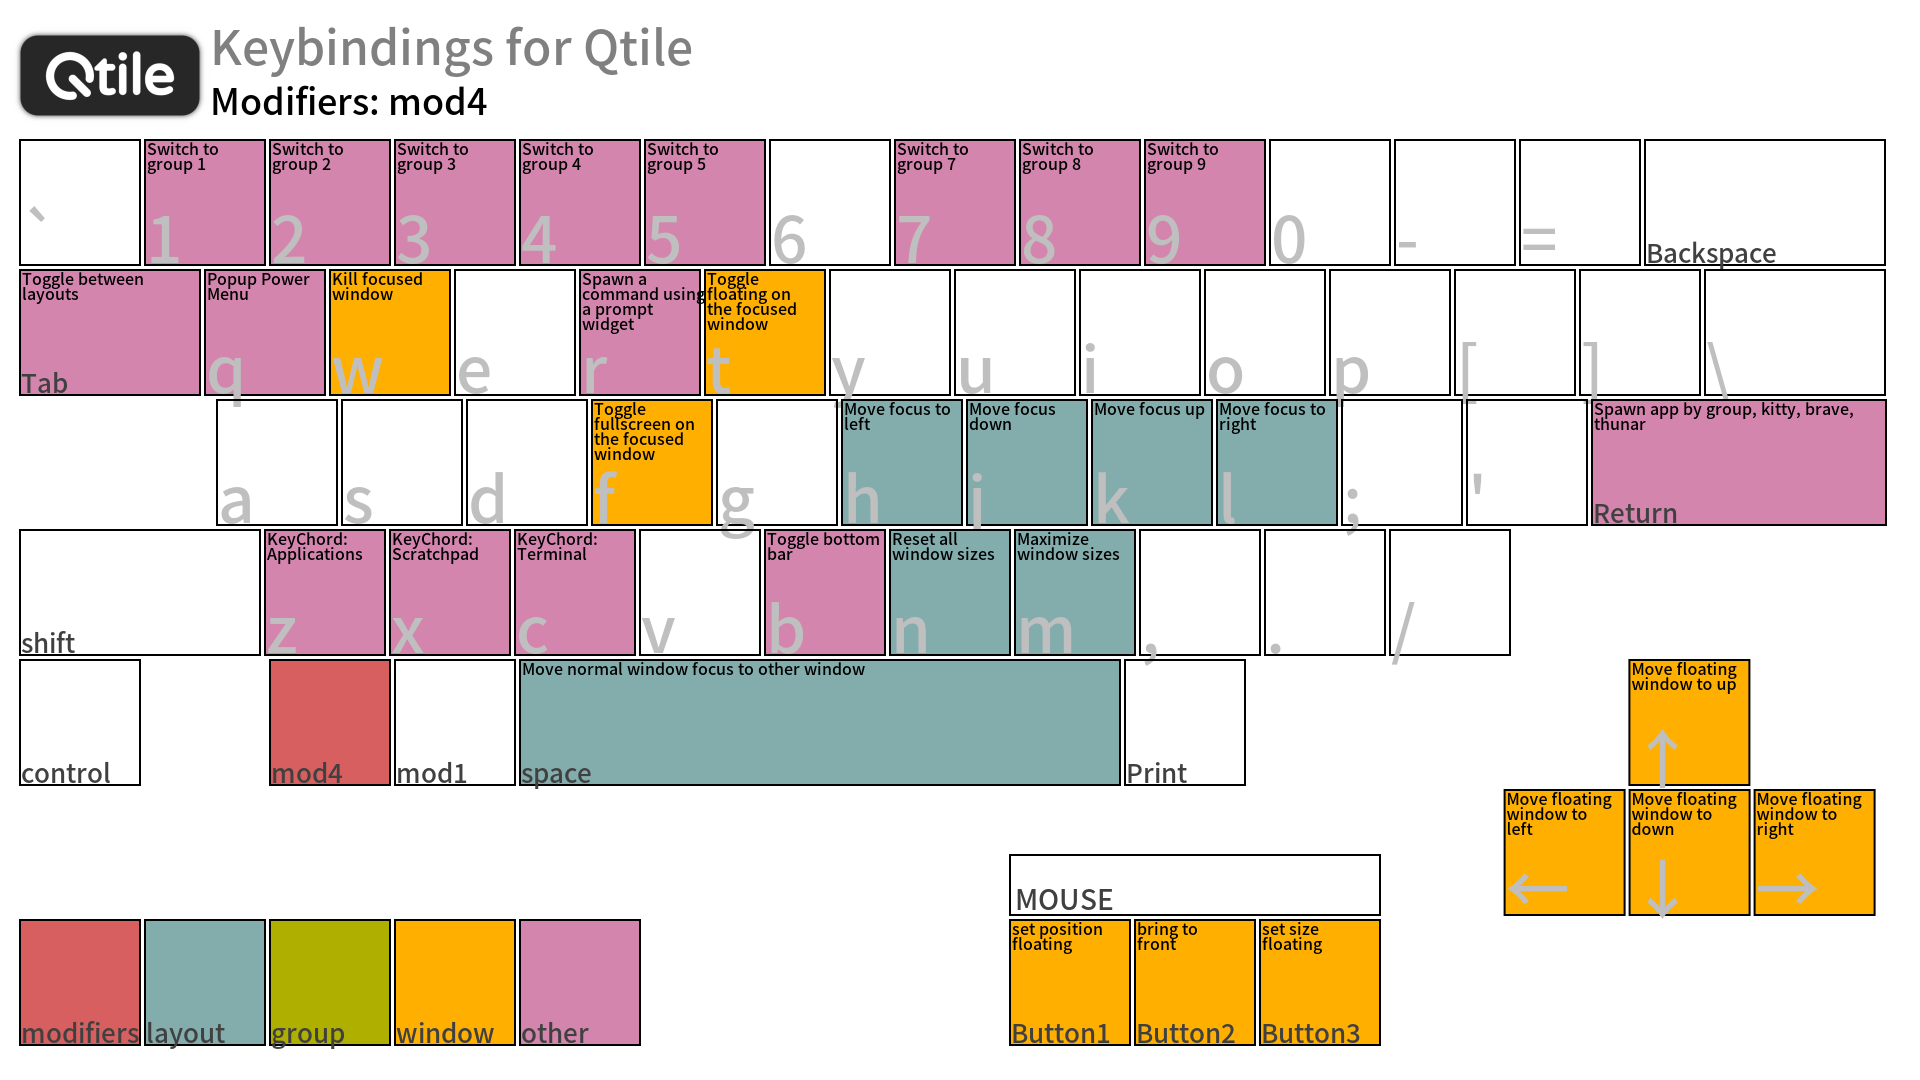
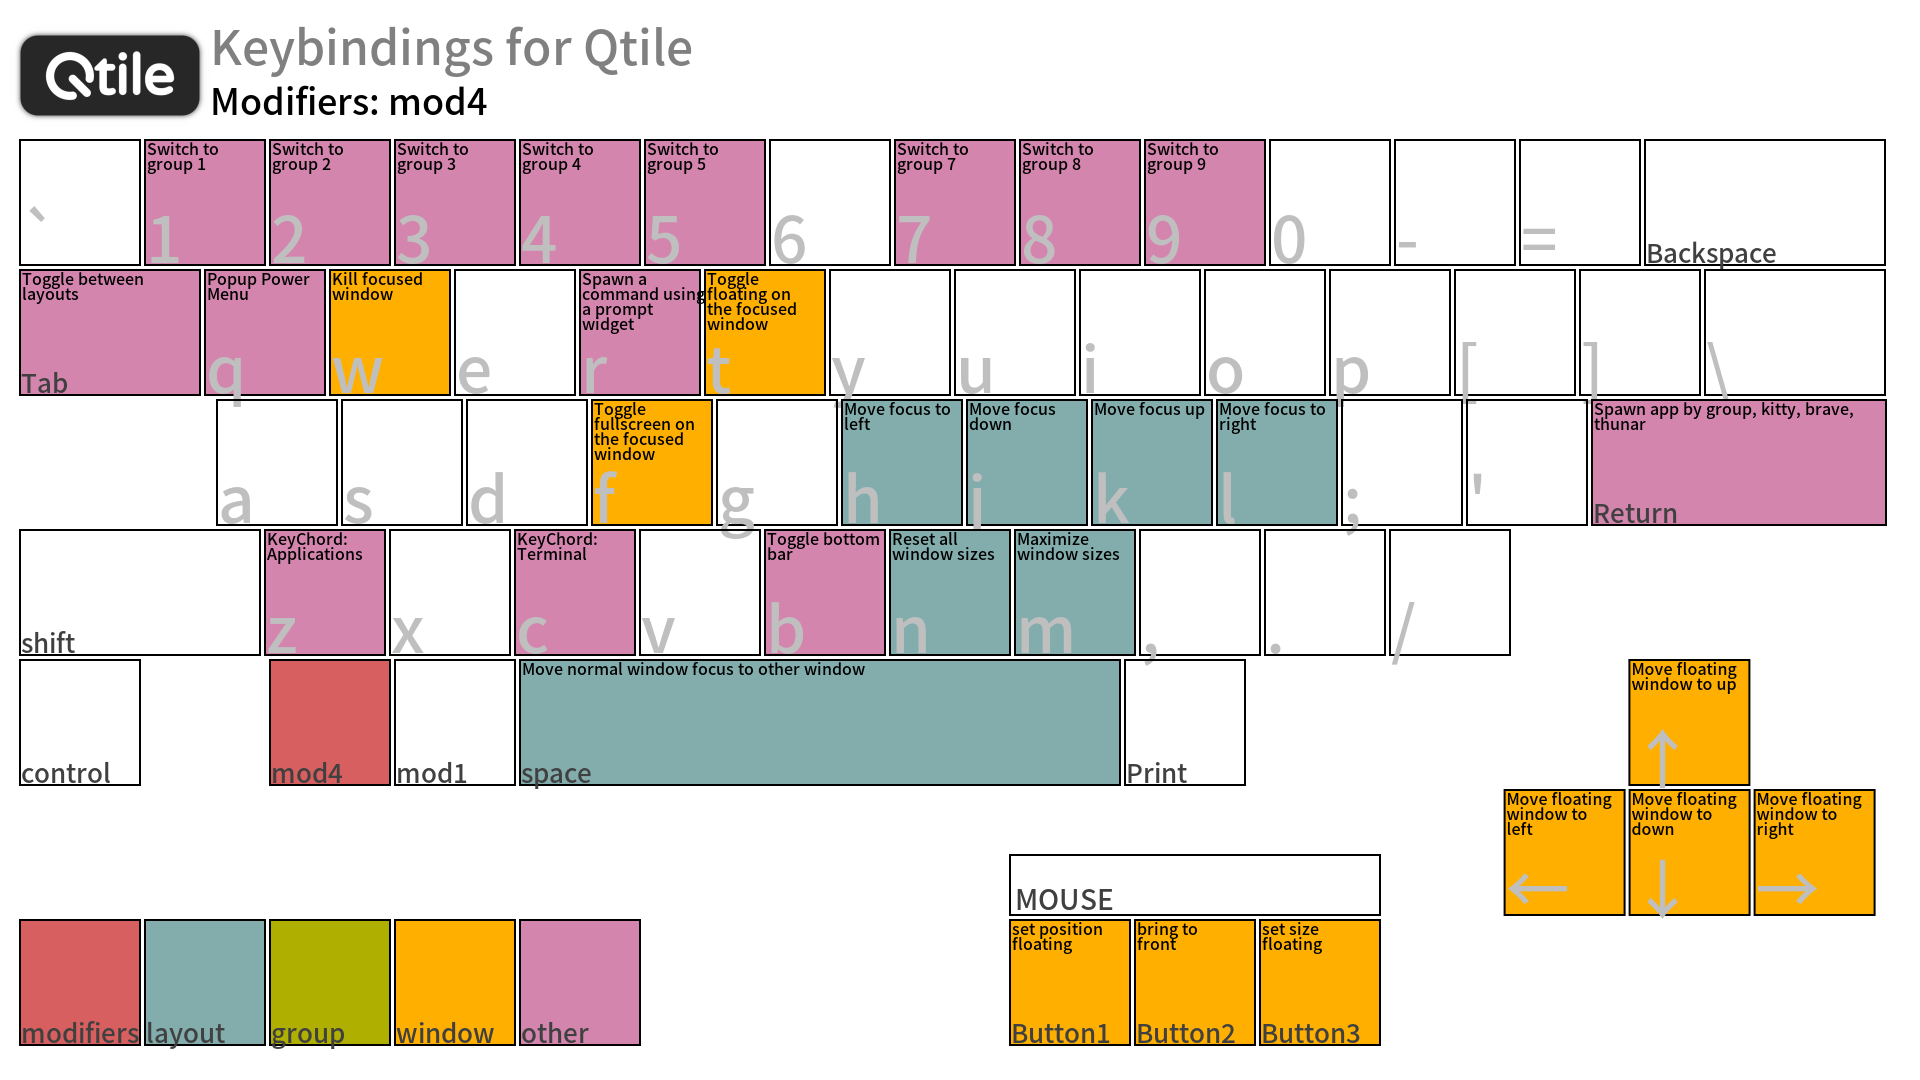
Delete DropDown and ScratchPad function

Changed region(s): [[0.1875, 0.4889, 0.2812, 0.6111]]

diff --git a/modules/keys.py b/modules/keys.py
@@ -130,17 +130,7 @@ keys = [
       Key([], 'v', lazy.spawn('vlc'),         desc = 'Run VLC'),
     ],
     mode = False,
-    # timeout = 3, # NOTE: This does not use?
     name = 'Applications',
-  ),
-
-
-  KeyChord([MOD4], 'x', [
-      Key([], 'm', lazy.group['scratchpad'].dropdown_toggle('mousepad'), desc = 'Scratchpad Mousepad'),
-      Key([], 'n', lazy.group['scratchpad'].dropdown_toggle('notable'),  desc = 'Scratchpad Notable'),
-    ],
-    mode = False,
-    name = 'Scratchpad',
   ),
 
 

diff --git a/config.py b/config.py
@@ -50,7 +50,6 @@ from modules.layouts import layouts
 from modules.screens_bar import screens
 # from modules.screens_bar_none import screens
 from modules.floating import floating_layout
-from modules.dropdowns import dropdowns
 from modules.mouse import mouse
 
 

diff --git a/docs/07_00-unused-features.md b/docs/07_00-unused-features.md
@@ -1,4 +1,4 @@
-# Unused features
+# Functions that were used but are no longer used
 
 Initially, I incorporated these functions for learning purposes, but I no longer use them, so I'll list them here. Since I manage it using Git, I've completely deleted them, but if you trace the revisions, you should be able to see the settings.
 
@@ -7,6 +7,10 @@ Initially, I incorporated these functions for learning purposes, but I no longer
 
 The reason is that I don't use this function, so I decided it was unnecessary. I don't need it because I type commands directly from the terminal or use. For now, libqtile.widget.Prompt is sufficient for me. Although the uses are clearly different, I may focus on Popup Toolkit in the future.
 
+
+## DropDown and ScratchPad
+
+This may be a feature that was too early for me. I found this feature difficult to use, as it also relates to the settings of applications to which floating settings are applied.
 
 
 <!-- -->

diff --git a/README.md b/README.md
@@ -1,5 +1,5 @@
 > [!NOTE]
-> I found this `README.md` alone to be too complicated and tedious. For this reason, I am gradually migrating and writing documentation in `[docs](./docs/)`.  
+> I found this `README.md` alone to be too complicated and tedious. For this reason, I am gradually migrating and writing documentation in [docs](./docs/).  
 > 2025-09-29
 
 
